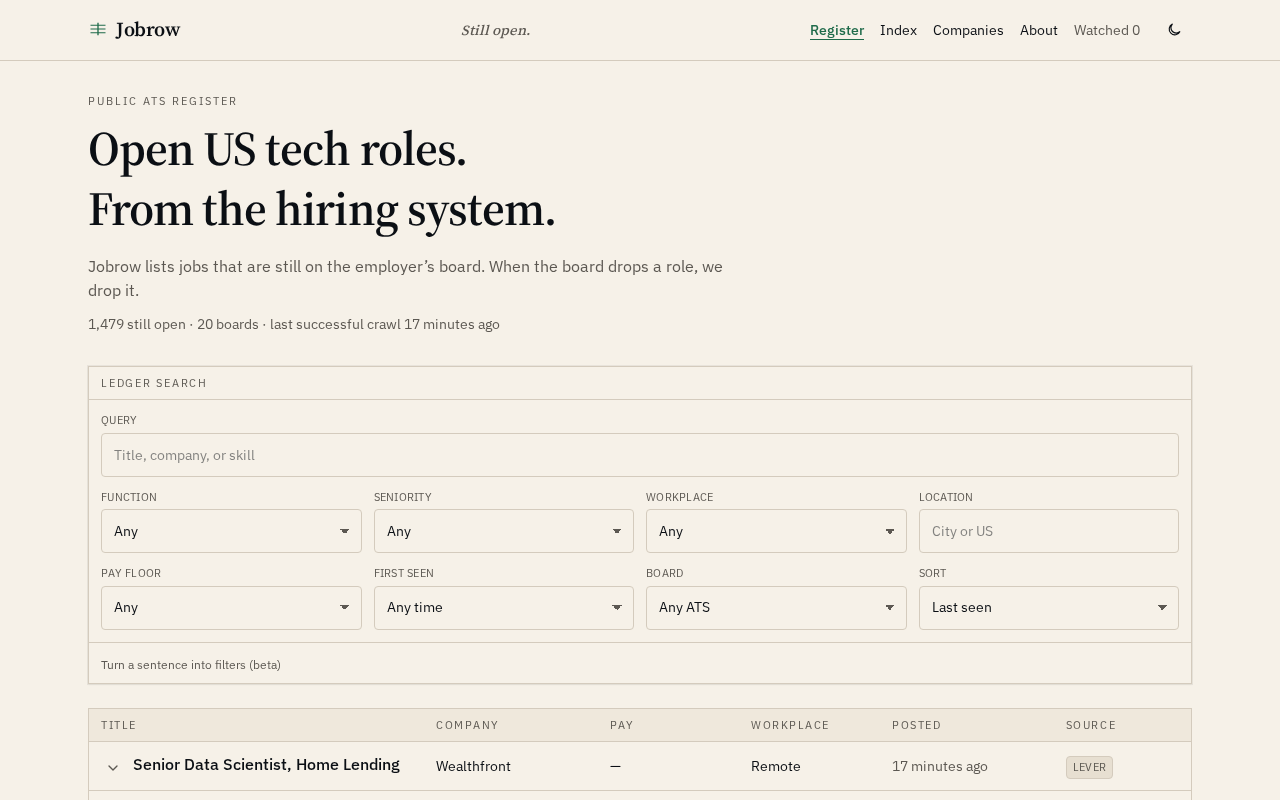
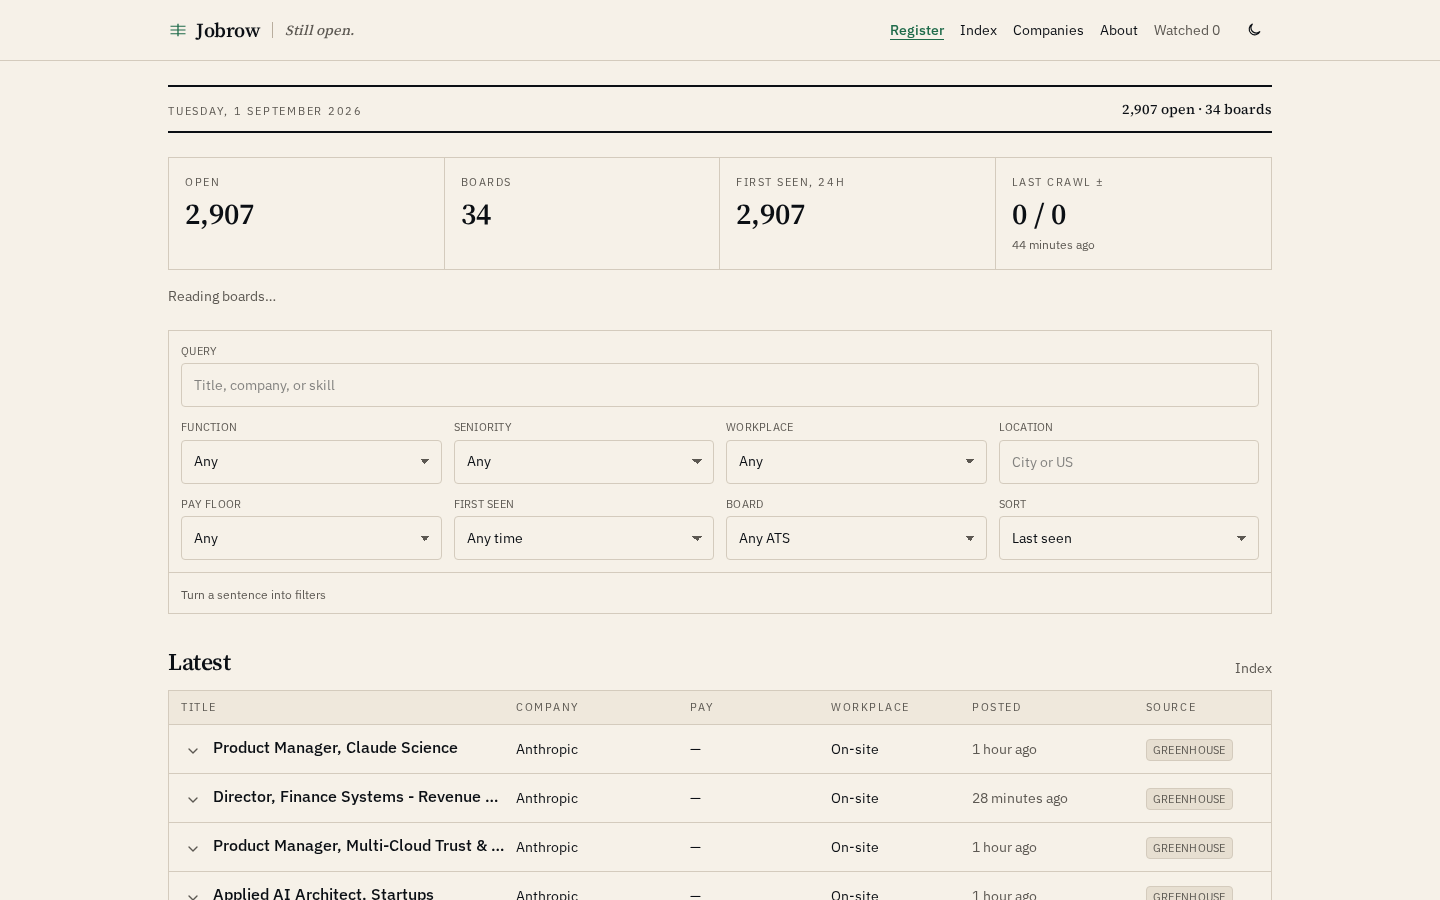
docs: refresh README, screenshots, and sourcing for the live index
Neon, 34 boards, 2k+ open roles, rates waitlist, and current UI
captures. Drop leftover PGLite-as-production copy.

diff --git a/src/routes/legal.sourcing.tsx b/src/routes/legal.sourcing.tsx
@@ -15,7 +15,9 @@ function SourcingPage() {
           <p>
             Jobrow reads official public ATS board APIs — the same JSON an employer’s careers page
             already uses. We do not scrape Indeed, LinkedIn, ZipRecruiter, or other aggregators. We
-            do not scrape hotfix.jobs or republish another product’s summaries.
+            do not scrape other job indexes or republish another product’s summaries. The public
+            register is 34 US-focused tech boards (Greenhouse, Ashby, Lever). A Workable adapter
+            exists for later tokens.
           </p>
           <ul className="list-disc space-y-2 pl-5">
             <li>

diff --git a/README.md b/README.md
@@ -1,105 +1,133 @@
 # Jobrow
 
-Searchable register of still-open US tech roles, read from public employer ATS boards.
+Public register of **still-open US tech roles**, read from employer ATS JSON — not from another job site.
+
+Tagline: **Still open.**
 
 [![Live Demo](https://img.shields.io/badge/Live%20Demo-Vercel-black?logo=vercel)](https://job-board-devtechedge1.vercel.app)
+[![Boards](https://img.shields.io/badge/Boards-34-1F6B4A)](https://job-board-devtechedge1.vercel.app/companies)
 [![TanStack Start](https://img.shields.io/badge/TanStack%20Start-black)](https://tanstack.com/start)
 [![TypeScript](https://img.shields.io/badge/TypeScript-5-blue?logo=typescript)](https://www.typescriptlang.org/)
 [![License](https://img.shields.io/badge/License-MIT-green)](LICENSE)
 
 ---
 
-## Live Demo
+## Live demo
 
 **https://job-board-devtechedge1.vercel.app**
 
-> **Status:** Public Vercel Hobby. No `DATABASE_URL` is set, so the index runs on embedded PGLite and reseeds from public Greenhouse / Ashby / Lever JSON on cold start. Apply always leaves the site for the employer board. Independent index — not an employer, recruiter, or agency.
+Production is **Neon Postgres** on Vercel Hobby. The index currently holds **2,000+ open US tech roles across 34 boards**. Apply always leaves Jobrow for the employer ATS. Independent index — not an employer, recruiter, or agency.
+
+`GET /api/health` reports `{ db: "neon", openJobs, pendingBoards }`.
 
 ---
 
 ## Screenshots
 
-| Register | About |
+| Register | Index |
 |----------|--------|
-| ![Register](docs/screenshots/01-register.png) | ![About](docs/screenshots/02-about.png) |
+| ![Register](docs/screenshots/01-register.png) | ![Index](docs/screenshots/05-index.png) |
 
 | Role | Companies |
 |------|-----------|
 | ![Job detail](docs/screenshots/03-job-detail.png) | ![Companies](docs/screenshots/04-companies.png) |
 
----
+| About | Rates |
+|-------|--------|
+| ![About](docs/screenshots/02-about.png) | ![Rates](docs/screenshots/06-rates.png) |
 
-## Features
-
-- Table-first register: title, company, pay, workplace, posted, source
-- Structured filters plus a free-text box
-- Same-run close when a successful board fetch no longer lists the role
-- Company pages, original legal drafts, localStorage watchlist
-- Admin password to add a board token and trigger a crawl
-- Twice-daily crawl Action hitting `POST /api/cron/crawl` (needs `APP_URL` + `CRON_SECRET`)
+Share card: [docs/screenshots/social-preview.png](docs/screenshots/social-preview.png)
 
 ---
 
-## Tech Stack
+## What you can do
+
+- **Register** (`/`) — date, open count, filters, latest rows, functions, boards
+- **Index** (`/jobs`) — full paginated table of the US tech slice
+- **Companies** (`/companies`) — 34 boards, US-tech count vs listed count, last successful fetch
+- **Role** (`/jobs/:id`) — summary, pay, workplace, posting HTML, Apply (leaves the site)
+- **Desk** (`/contact`) — corrections and legal notes (not applications)
+- **Add a board** (`/employers`) — public Greenhouse / Ashby / Lever / Workable token
+- **Rates** (`/pricing`) — Bound pass waitlist (`$11` / 28 days). No live checkout
+- **Placements** (`/placements`) — Ruled pin `$120` / masthead line `$55`. Waitlist only
+- **Watchlist** — local to the browser. No account. No resume upload
+- **Admin** (`/admin`) — password-gated crawl and board edits
+
+A role **drops when a successful crawl no longer sees it**. A failed fetch does not close that board.
+
+---
+
+## Registry (34)
+
+Seeded from [data/companies.csv](data/companies.csv) and [src/lib/seed-companies.ts](src/lib/seed-companies.ts). Tokens were confirmed against live public board JSON.
+
+| ATS | Companies |
+|-----|-----------|
+| Greenhouse (24) | Stripe, Anthropic, Airbnb, Coinbase, Discord, Figma, Cloudflare, Databricks, Vercel, Dropbox, Robinhood, Block, Lyft, Pinterest, Reddit, Twilio, Datadog, MongoDB, Instacart, Roblox, GitLab, Grafana Labs, Asana, Okta |
+| Ashby (7) | OpenAI, Ramp, Linear, Notion, Cursor, Perplexity, Supabase |
+| Lever (3) | Palantir, Wealthfront, Spotify |
+
+US-eligible **tech** titles stay on the register. Sales, finance, and non-US postings on the same board are ignored. The companies table shows both **US tech** and **listed** (raw JSON rows on the last good fetch).
+
+### Add another company
+
+1. Confirm the public board JSON exists:
+   - Greenhouse: `https://boards-api.greenhouse.io/v1/boards/{token}/jobs`
+   - Ashby: `https://api.ashbyhq.com/posting-api/job-board/{token}?includeCompensation=true`
+   - Lever: `https://api.lever.co/v0/postings/{token}?mode=json`
+2. `/admin` → unlock with `ADMIN_PASSWORD` → name / slug / ATS / board token / careers URL → crawl that row.
+3. Or append a line to `data/companies.csv` and a matching object in `SEED_COMPANIES`.
+
+Do not scrape career marketing HTML when the board JSON exists. Do not scrape other job aggregators.
+
+---
+
+## Stack
 
 | Layer | Technology |
 |-------|------------|
 | App | TanStack Start, React 19, TypeScript, Tailwind v4 |
-| Data | Postgres. Neon when `DATABASE_URL` is set; embedded PGLite on the public Vercel demo |
-| Sources | Greenhouse, Ashby, Lever public JSON APIs |
-| Hosting | Vercel |
-| Crawl | GitHub Action, twice daily |
+| Data | Neon Postgres in production; embedded PGLite when `DATABASE_URL` is omitted (local) |
+| Sources | Greenhouse, Ashby, Lever public JSON (Workable adapter ready) |
+| Host | Vercel Hobby |
+| Crawl | GitHub Action, twice daily, `POST /api/cron/crawl` with `Authorization: Bearer` |
+| Security | CSP and related headers in [vercel.json](vercel.json); see [SECURITY.md](SECURITY.md) |
 
 ---
 
-## Quick Start
+## Quick start
 
 ```bash
 npm install
 npm run dev
 ```
 
-Optional env: see [.env.example](.env.example). Never commit secrets.
+Without `DATABASE_URL` the app uses embedded PGLite and seeds the 34 boards on first load.
 
-Add a board in `/admin` using `ADMIN_PASSWORD`.
+```bash
+npm test
+npm run typecheck
+```
+
+Env template: [.env.example](.env.example). Never commit secrets.
+
+| Variable | Where | Purpose |
+|----------|--------|---------|
+| `DATABASE_URL` | Vercel | Neon pooled URI (`sslmode=require`) |
+| `ADMIN_PASSWORD` | Vercel | `/admin` |
+| `CRON_SECRET` | Vercel + GitHub Actions | Cron bearer token |
+| `APP_URL` | GitHub Actions | Origin the Action calls |
+| `VITE_SITE_URL` | Vercel | Sitemap / JSON-LD origin |
+
+Production already has Neon attached. Local demos can omit `DATABASE_URL`.
 
 ---
 
 ## Security
 
-See [SECURITY.md](SECURITY.md) for reporting, secrets, and what is in scope. Do not file public issues for vulnerabilities.
+See [SECURITY.md](SECURITY.md). Report vulnerabilities with GitHub private advisory, not a public issue.
 
-The company registry (the real asset) lives in [data/companies.csv](data/companies.csv) and is seeded from [src/lib/seed-companies.ts](src/lib/seed-companies.ts).
-
-### Add a 21st company
-
-1. Confirm the public board JSON exists:
-   - Greenhouse: `https://boards-api.greenhouse.io/v1/boards/{token}/jobs`
-   - Ashby: `https://api.ashbyhq.com/posting-api/job-board/{token}?includeCompensation=true`
-   - Lever: `https://api.lever.co/v0/postings/{token}?mode=json`
-2. Open `/admin`, unlock, fill name / slug / ATS / board token / careers URL, save, crawl that row.
-3. Or append a line to `data/companies.csv` and a matching object in `SEED_COMPANIES`, then restart so seed runs.
-
-Do not scrape career marketing HTML when the board JSON exists.
-
----
-
-## Persist the index (Neon)
-
-Public Vercel is still PGLite until `DATABASE_URL` is on the project. I cannot create a Neon account or write Vercel env from this sandbox.
-
-1. Create a free project at [console.neon.tech](https://console.neon.tech) (GitHub login). Name it `jobrow`. Region: AWS US East.
-2. Copy the **pooled** URI (`-pooler` in the host, `sslmode=require`).
-3. Vercel → `job-board` → Settings → Environment Variables, Production + Preview:
-   - `DATABASE_URL` = that URI
-   - `ADMIN_PASSWORD` = a password you pick
-   - `CRON_SECRET` = `openssl rand -hex 24`
-   - `APP_URL` = `https://job-board-devtechedge1.vercel.app`
-   - `VITE_SITE_URL` = same
-4. Redeploy. Hit `/api/health` — `db` should be `"neon"`.
-5. GitHub → `job-board` → Settings → Secrets and variables → Actions: `APP_URL` and `CRON_SECRET`.
-
-Then leave `/companies` open once. The index survives cold starts, and the twice-daily Action can write to the same database.
+Hardening in this tree: parameterized SQL, escaped job HTML, script-safe JSON-LD, password-gated admin dump, ATS host allowlist, no `?secret=` on cron, desk size cap, public-https URL checks.
 
 ---
 
@@ -107,11 +135,11 @@ Then leave `/companies` open once. The index survives cold starts, and the twice
 
 | Item | Status |
 |------|--------|
-| Custom domain / final brand | Working name is Jobrow. Buy a domain later. |
-| Neon `DATABASE_URL` | Flagged on. Public Vercel still needs the connection string in project env. |
-| GitHub Action secrets `APP_URL` + `CRON_SECRET` | Token cannot write Actions secrets. Set them in the repo after Neon. |
+| Custom domain / final brand | Working name is Jobrow. Buy later. |
+| Neon | Live. |
+| GitHub Action `APP_URL` + `CRON_SECRET` | Set on the repo. |
 | Counsel | Terms / privacy / sourcing are drafts. |
-| Alerts / Plus / featured listings | Out of v1. |
+| Bound pass / ruled pins | Rate card exists. Checkout is not live. |
 
 ---
 

diff --git a/SECURITY.md b/SECURITY.md
@@ -17,7 +17,7 @@ We will acknowledge valid reports and patch production before any write-up.
 
 ## What this app is
 
-Jobrow is a public index of employer ATS JSON (Greenhouse, Ashby, Lever, Workable). It is not an employer, recruiter, or resume database. Search does not require an account. Apply leaves this site.
+Jobrow is a public index of employer ATS JSON (Greenhouse, Ashby, Lever, Workable). Production is Neon Postgres with 34 seeded boards. It is not an employer, recruiter, or resume database. Search does not require an account. Apply leaves this site.
 
 ## In scope
 
